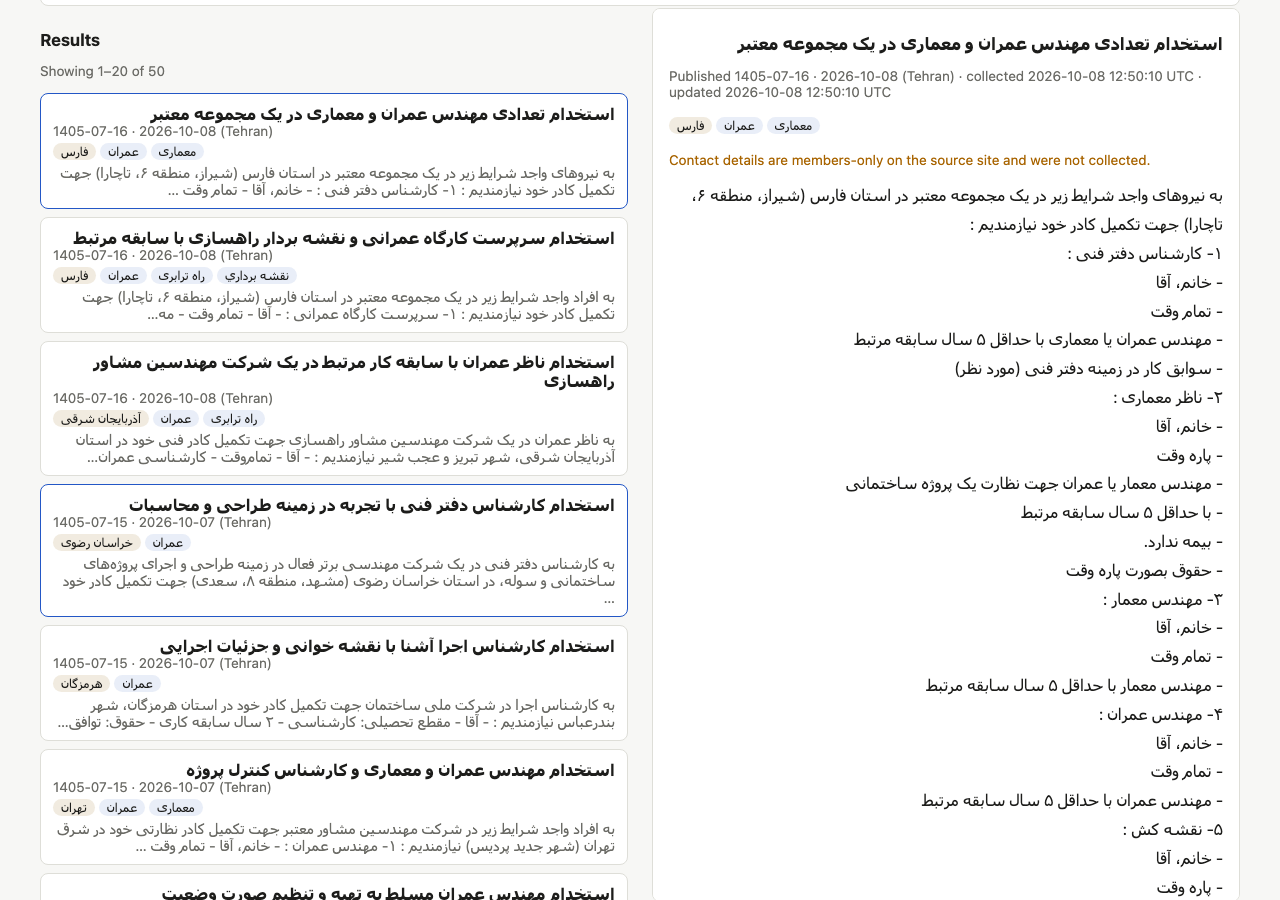
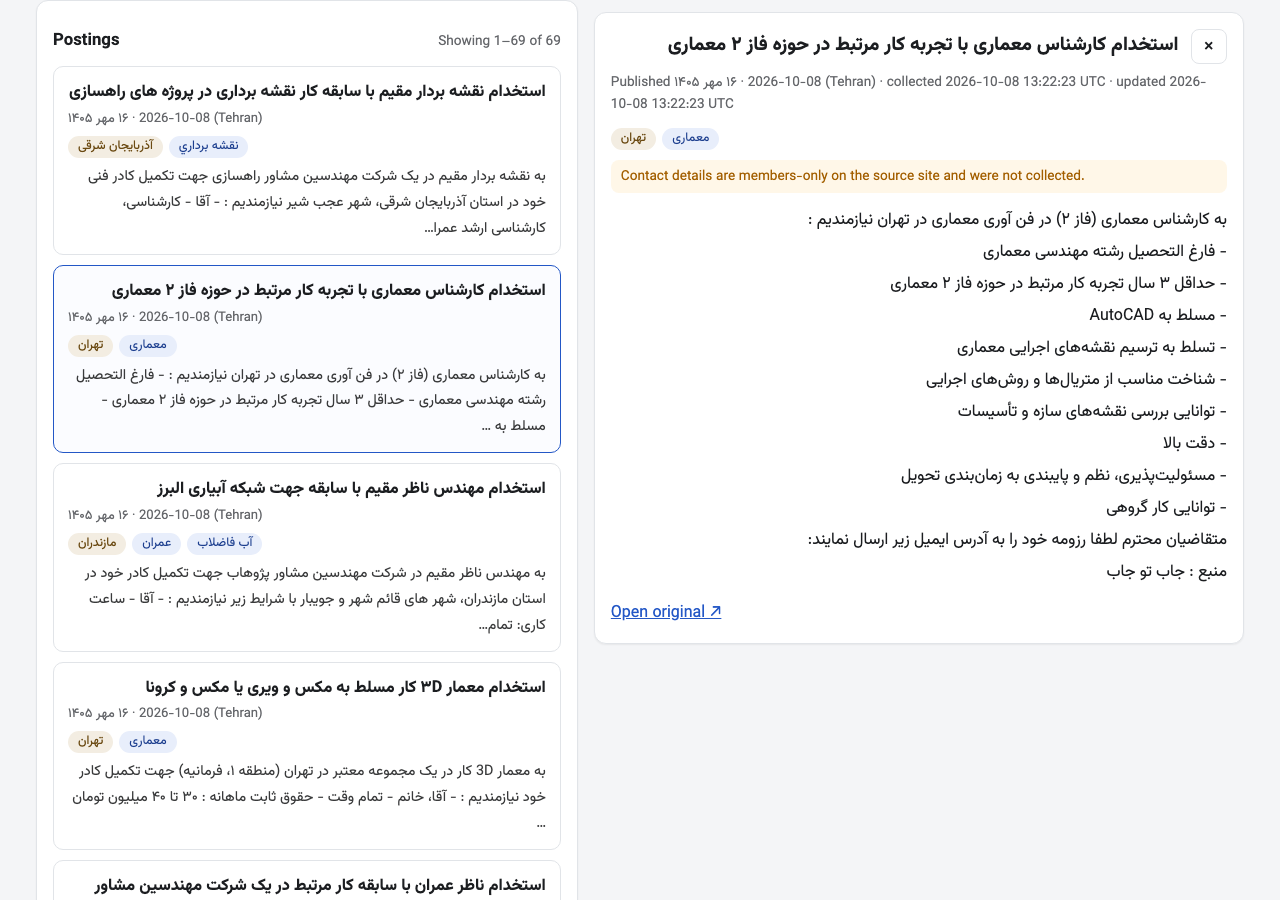
Docs: time per step, page-request wording, new screenshots
Refs #8

Changed region(s): [[0.0312, 0.0, 0.9688, 1.0], [0.3438, 0.0311, 0.4375, 0.0622]]

diff --git a/docs/TIME_LOG.md b/docs/TIME_LOG.md
@@ -1,19 +1,21 @@
 # Time log
 
-Actual working time per step is Parham's to confirm. The commit span shows when each step's
-commits landed (Tehran time, from `git log`); it is a fact from the history, not a work-time claim.
+Working time as Parham reported it: 2026-10-07 from about 18:00 to 22:00 and 2026-10-08 from
+13:30 to 17:00 (Tehran time), about **7 h 30 min** of focused work; lighter follow-up later on
+2026-10-08 is not counted. The split per step follows the commit times in `git log`.
 
-| Step | Date | Commit span (Tehran) | Time | Notes |
+| Step | Date | Time (approx.) | Commits (Tehran) | Notes |
 |---|---|---|---|---|
-| 0 · Reading the brief, site research, plan, issues | 2026-10-07 | until 20:20 | _to confirm_ | Live site exploration, `PLAN.md`, issues #1–#8 |
-| 1 · Skeleton, fixtures, CI, docs | 2026-10-07 | 20:19–20:55 | _to confirm_ | PR #9 |
-| 2 · Dates, Tehran/UTC window, normalization | 2026-10-07 | 20:59–21:09 | _to confirm_ | PR #10 |
-| 3 · eng-estekhdam adapter, fixtures, tag mapping | 2026-10-07 | 21:16–21:50 | _to confirm_ | PR #11 |
-| 4 · SQLite storage, runs and issues | 2026-10-07/08 | 21:53 – 14:55 next day | _to confirm_ | PR #12 (overnight pause) |
-| 5 · Collect command: fetching, stop rule, statuses | 2026-10-08 | 15:10–15:57 | _to confirm_ | PR #13 |
-| 6 · HTTP API: search, tags, stats, runs, Collect now | 2026-10-08 | 16:02–16:17 | _to confirm_ | PR #14 |
-| 7 · Web page: search, detail, run monitor, Collect now, XSS test | 2026-10-08 | 16:21–16:49 | _to confirm_ | PR #15 |
-| 8 · Live run, design doc, README, clean-clone check | 2026-10-08 | from 16:50 | _to confirm_ | this PR |
+| 0 · Reading the brief, site research, plan, issues | 2026-10-07 | 2 h 20 min | until 20:20 | Live site exploration, `PLAN.md`, issues #1–#8 |
+| 1 · Skeleton, fixtures, CI, docs | 2026-10-07 | 35 min | 20:19–20:55 | PR #9 |
+| 2 · Dates, Tehran/UTC window, normalization | 2026-10-07 | 15 min | 20:59–21:09 | PR #10 |
+| 3 · eng-estekhdam adapter, fixtures, tag mapping | 2026-10-07 | 40 min | 21:16–21:50 | PR #11 |
+| 4 · SQLite storage, runs and issues | 2026-10-07/08 | 1 h 35 min | 21:53–22:15, 14:53–14:55 | PR #12; next day 13:30–14:55 incl. the Codex finding and questions |
+| 5 · Collect command: fetching, stop rule, statuses | 2026-10-08 | 1 h | 15:10–15:57 | PR #13 |
+| 6 · HTTP API: search, tags, stats, runs, Collect now | 2026-10-08 | 20 min | 16:02–16:17 | PR #14 |
+| 7 · Web page: search, detail, run monitor, Collect now, XSS test | 2026-10-08 | 35 min | 16:21–16:49 | PR #15 |
+| 8 · Live run, design doc, README, clean-clone check | 2026-10-08 | 10 min + light follow-up | from 16:50 | PR #16 (page redesign and fixes in the evening, not counted) |
+| **Total** | | **≈ 7 h 30 min** | | |
 
 ## Unfinished work and known limitations
 

diff --git a/README.md b/README.md
@@ -126,7 +126,14 @@ Scraped text is only ever inserted as text (`textContent`), never as HTML, and l
 made for `http`/`https` addresses. `tests/test_page_xss.py` loads a deliberately malicious
 posting in a real browser and checks that the attack shows as plain characters and never runs.
 
-![Search results and a posting's full text](docs/screenshots/page-detail.png)
+| Desktop: list and an open posting | Phone |
+|---|---|
+| ![Desktop: the list and an open posting](docs/screenshots/page-detail.png) | ![Phone: postings per day and search](docs/screenshots/page-phone.png) |
+
+Persian text uses the open-source Vazirmatn font (SIL Open Font License, `api/static/fonts/OFL.txt`),
+served by the app itself so the page loads nothing from other sites. With no filters the list shows
+every stored posting (up to 100 per page; a 7-day window is about 70); **Show all** clears the
+filters, swapped dates are put in order, and an empty list says why (nothing collected yet, or no match).
 
 The server listens on `http://127.0.0.1:8000` only. There is no login (the brief leaves authentication
 out), and **Collect now** starts a process, so do not expose it publicly (`--host 0.0.0.0`).
@@ -283,12 +290,15 @@ isolated and repaired; how untrusted HTML is kept harmless; trade-offs and what 
 
 [`docs/LIVE_RUN.md`](docs/LIVE_RUN.md). On 2026-10-08 a fresh clone collected the window
 2026-10-02 .. 2026-10-08 Tehran (`2026-10-01T20:30:00Z` .. `2026-10-08T20:30:00Z`): status
-`success`, 76 pages, **69 postings**, 0 rejected, no issues, in 1 min 17 s. A separate script that
+`success`, **69 postings**, 0 rejected, no issues, in 1 min 17 s. It made 76 page requests:
+7 listing pages (10 ads each, 70 cards seen, the last one already older than the window) and
+69 posting pages, one per ad, because only the posting page has the full text. A separate script that
 re-read every page found all 69, nothing missing or extra, every field matching.
 
 ## Time spent, limitations and unfinished work
 
-Time per step: [`docs/TIME_LOG.md`](docs/TIME_LOG.md).
+About **7 h 30 min** of focused work over two days (7 Oct 18:00–22:00, 8 Oct 13:30–17:00 Tehran);
+per step in [`docs/TIME_LOG.md`](docs/TIME_LOG.md).
 
 Limitations: one source; runs are started by hand (no scheduler, as asked); no login, so the
 server must stay on `127.0.0.1`; within one day the order follows the site's post IDs because the

diff --git a/docs/AI_NOTES.md b/docs/AI_NOTES.md
@@ -41,3 +41,5 @@ Tools: Claude Code (writes plan, code and tests), Codex GitHub review (second re
 | 2026-10-08 | Parham asked where the 30-minute dead-run timer came from | It was my guess, not derived, and too long. **Replaced** by a heartbeat: refreshed after every page request; no heartbeat for 3 min = dead (longest healthy silence is one request with all retries, ≈ 97 s). Old databases get the column automatically | `test_a_long_run_that_keeps_working_is_never_taken_for_dead` (fails without the heartbeat), `test_a_run_that_stops_answering_is_marked_failed_after_three_minutes` |
 | 2026-10-08 | Search order within one day was our row id, descending | **Changed**, found while writing the design trade-offs: rows are stored in listing order, so the oldest ad of a day came first (seen on live data: 205131 before 205137). Within a day the site's post ID now decides, highest first | `test_within_one_day_the_newest_post_id_comes_first` fails on the old order |
 | 2026-10-08 | Live run and README | **Verified** from a fresh clone following only the README: install, `init-db`, 275 tests, live `collect` (69 postings, `success`), API queries; an independent regex-based script re-read all 76 pages and found no difference | `docs/LIVE_RUN.md` |
+| 2026-10-08 | Page reviewed by Parham: weak Persian typography, poor phone layout, "errors" with no filters | **Changed**: self-hosted Vazirmatn (OFL) so the CSP still allows nothing external; mobile-first layout, full-screen detail on phones; all postings on one page; clear empty states; swapped dates fixed. Reproducing "errors" found a real bug in my code: the Reset button's `id="reset"` hid the form's `reset()` method, so it threw and never cleared filters | Browser tests for Show all, swapped dates and empty results; checked at 1280 px and 375 px with no sideways scroll |
+| 2026-10-08 | Static files had no cache rule, so the browser kept the old page after an update | **Fixed**: `Cache-Control: no-cache` on every response (revalidate by ETag) | Seen in the browser; header asserted in `test_every_response_has_a_strict_content_security_policy` |

diff --git a/docs/LIVE_RUN.md b/docs/LIVE_RUN.md
@@ -24,7 +24,7 @@ exit code: 0                           # ended 2026-10-08T13:22:23Z, 1 min 17 s
 | Window (Tehran) | 2026-10-02 .. 2026-10-08 = ۱۰ to ۱۶ مهر ۱۴۰۵, today and the 6 days before |
 | Window (UTC, stored and queried) | `2026-10-01T20:30:00Z` ≤ published_at < `2026-10-08T20:30:00Z` |
 | Status | `success`, exit code 0 |
-| Requests | 76 (7 listing pages, 69 posting pages), at least 1 s apart, 1 min 17 s in total |
+| Requests | 76 = 7 listing pages (10 ads each: 70 cards seen, 69 in the window, the 70th older, which stops the reading) + 69 posting pages (one per ad, for its full text); at least 1 s apart, 1 min 17 s in total |
 | Postings | 69 found in the window, 69 stored, 0 rejected |
 | Failed pages / invalid records | none (`run_issues` is empty for this run) |
 | Health numbers | 10.0 cards per listing page; date OK 100 %; body OK 100 %; tags OK 100 % |

diff --git a/PLAN.md b/PLAN.md
@@ -346,8 +346,7 @@ Each test gets a fresh SQLite file in a temp folder.
 ## 13. Requirement checklist (every sentence of the brief)
 
 Status 2026-10-08: every row below is built and has its proof in the repository (PRs #9–#15 and
-the step 8 PR; the live run is in `docs/LIVE_RUN.md`), **except the actual time per step**, which
-only Parham can fill in (`docs/TIME_LOG.md`).
+the step 8 PR; the live run is in `docs/LIVE_RUN.md`; time per step in `docs/TIME_LOG.md`).
 
 | Brief | Plan | Proof |
 |---|---|---|
